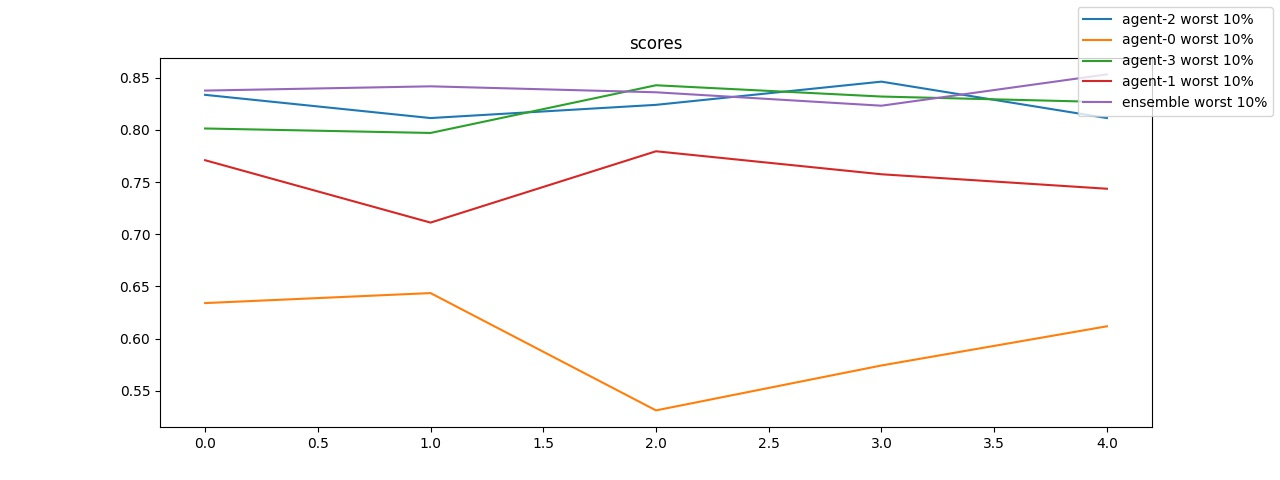
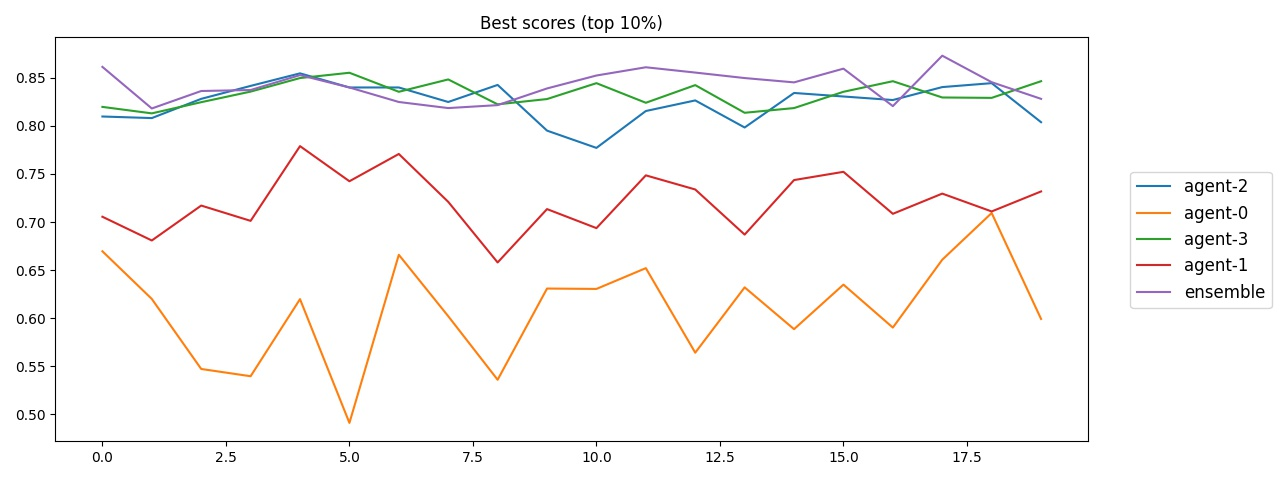
improve README.md & charts

diff --git a/test.py b/test.py
@@ -20,7 +20,6 @@ import glob
 from Agent.DQNAgent import DQNAgent
 from Agent.DQNEnsembleAgent import DQNEnsembleAgent
 import pylab as plt
-import numpy as np
 
 #######################################
 MAZE_FOV = 3
@@ -39,15 +38,18 @@ def plot2file(data, filename, chartname):
     axe.plot(dataset, label=name)
   axe.title.set_text(chartname)
     
-  fig.legend()
+  fig.tight_layout()
+  fig.subplots_adjust(right=0.85)
+  fig.legend(loc="center right", prop={'size': 12})
   fig.savefig(filename)
   plt.close(fig)
   return
 
-def testAgent(environments, agent, name, metrics, N=5):
+def testAgent(environments, agent, name, metrics, N=20):
   print('Agent: %s' % name)
   
-  scoreTop90 = metrics['scores']['%s worst 10%%' % name] = []
+  scoreTop90 = metrics['Worst scores (top 90%)']['%s' % name] = []
+  scoreTop10 = metrics['Best scores (top 10%)']['%s' % name] = []
   
   for i in range(N):
     print('Round %d/%d...' % (i, N))
@@ -60,8 +62,7 @@ def testAgent(environments, agent, name, metrics, N=5):
     
     scores = list(sorted(scores, reverse=True))
     scoreTop90.append(scores[int(0.9 * len(scores))])
-
-    plot2file(metrics, 'chart.jpg', 'scores')
+    scoreTop10.append(scores[int(0.1 * len(scores))])
   return
 
 if __name__ == "__main__":
@@ -69,13 +70,14 @@ if __name__ == "__main__":
     'size': 64,
     'FOV': MAZE_FOV,
     'minimapSize': MAZE_MINIMAP_SIZE,
-    'loop limit': 64,
+    'loop limit': 1000,
   }
   environments = [MazeRLWrapper(MAZE_PARAMS) for _ in range(100)]
   MODEL_INPUT_SHAPE = environments[0].input_size
 
   metrics = {
-    'scores': {}
+    'Worst scores (top 90%)': {},
+    'Best scores (top 10%)': {}
   }
   models = []
   for i, x in enumerate(glob.iglob('weights/*.h5')):
@@ -97,3 +99,6 @@ if __name__ == "__main__":
     name='ensemble',
     metrics=metrics
   )
+  
+  for i, name in enumerate(metrics.keys()):
+    plot2file(metrics, 'chart-%d.jpg' % i, name)

diff --git a/README.md b/README.md
@@ -1,3 +1,4 @@
+Надя, [01.01.21 20:46]
 # Deep Maze
 
 Этот проект является симуляцией изучения простого grid world-a ботом с ограниченным полем зрения. Очки начисляются исключительно за открытие новых участков мира, что требует, как минимум, планирования и навигации.
@@ -11,24 +12,26 @@
 Видимая область - 17x17
 ```
 
-В данный момент, используется простой Q-learning, без какой-либо памяти, поэтому в состояние мира был добавлен срез с данными о прошлых передвижениях агента. Таким образом, агент получает данные о проходимости окружающих его клеток, проходил ли он по ней и давно ли (чтоб не использовать LSTM).
+В данный момент, используется простой Q-learning, без какой-либо памяти, поэтому в состояние мира был добавлен срез с данными о прошлых передвижениях агента. Таким образом, агент получает данные о проходимости окружающих его клеток и о передвижениях (проходились ли вообще и если да - то как давно, чтобы не использовать LSTM).
 
-Агенты очень часто застревали в сложных участках, поэтому было добавлено детектирование данного поведения, остановка агента и запуск того же агента в режиме исследования. Полученные таким способом данные помещаются в отдельную память, чтоб потом обучать агента действовать в подобных ситуациях. Эмпирически эффект заметен, но нельзя однозначно утверждать пользу подобного подхода.
+Агенты очень часто застревали в сложных участках, поэтому было добавлено детектирование данного поведения, остановка агента и запуск того же агента в режиме исследования. Полученные таким способом данные помещаются в отдельную память, чтобы потом обучить агента как действовать в подобных ситуациях. Эмпирически эффект заметен, но нельзя однозначно утверждать пользу подобного подхода.
 
-Изначально использовалась CNN (что логичнее для карт), но простая Dense-сетка давала сравнимый результат. Возможно, конечно, что остальные доработки могли привести к более заметному улучшению предсказаний CNN. Кроме того, были испробованы различные варианты наград, начальных условий, предобработки и др.
+Изначально использовалась CNN (что логичнее для карт), но простая Dense-сетка давала сравнимые результат. Возможно, конечно, что остальные доработки могли привести к более заметному улучшению предсказаний CNN. Кроме того, были испробованы различные варианты наград, начальных условий, предобработки и др.
 
-Длительная тренировка одного агента не давала ощутимого прогресса, поэтому, в итоге, были натренированы 4 версии той же сети и затем их решения объединяются вместе (см. [DQNEnsembleAgent.py](Agent/DQNEnsembleAgent.py)). Ансамбль из агентов позволяет получать более стабильные результаты в сложных ситуациях. Например, если агент попадает в сложный участок пространства, то существенно выше шанс что он сможет попытаться найти выход, чем когда агент основывается на предсказании лишь одной сети. Верхнюю же границу ансамбль не улучшает.
+Длительная тренировка одного агента не давала ощутимого прогресса, поэтому, в итоге, были натренированы 4 версии той же сети и затем их решения объединялись вместе (см. [DQNEnsembleAgent.py](Agent/DQNEnsembleAgent.py)). Ансамбль из агентов позволяет получать более стабильные результаты в сложных ситуациях. Например, если агент попадает в сложный участок пространства, то существенно выше шанс что он сможет попытаться найти выход, чем когда агент основывается на предсказании лишь одной сети.
 
-Ниже показано сравнение верхней границы (кол-во открытой области в 10 симуляциях из 100, по 5 прогонов):
+Ниже показано сравнение верхней границы (кол-во открытой области в 10 симуляциях из 100, по 20 прогонов):
 
 ![](img/20201231-high.jpg)
 
 Как видно, ансамбль ведёт себя стабильнее, но не намного лучше отдельных его частей.
 
-А это нижняя граница (кол-во открытой области в 90 симуляциях из 100, по 5 прогонов):
+А это нижняя граница (кол-во открытой области в 90 симуляциях из 100, по 20 прогонов), при худших начальных условиях:
 
 ![](img/20201231-low.jpg)
 
+Опять же, прямо ощутимого улучшения нет, но ансамбль немного стабильнее открывает 20-25% карты.
 
+Следующим шагом будет дистилляция ансамбля в единую сеть, а так же использование полноценной сети для комбинации предсказаний подсетей. Есть большая вероятность того, что это позволит уловить более глубокие корреляции т. к. обучаемая сеть будет иметь представление о соотношение Q-values.
 
-
+Продолжение, правки, фиксы и видео следуют, а пока Happy New Year :)
